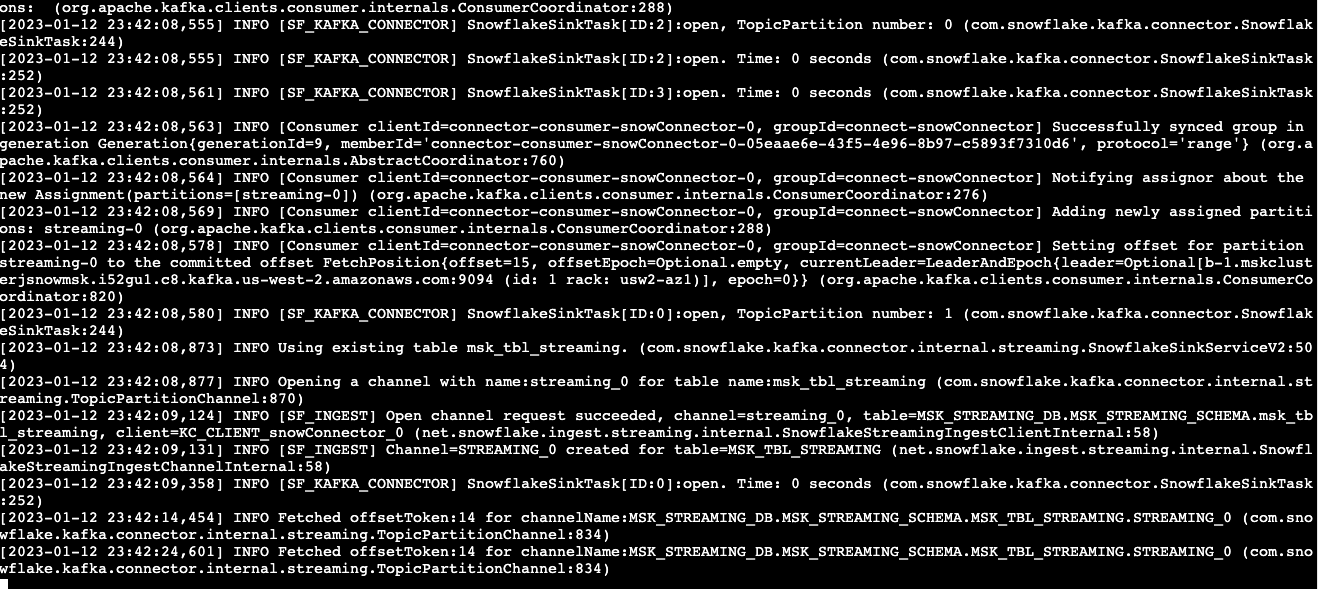
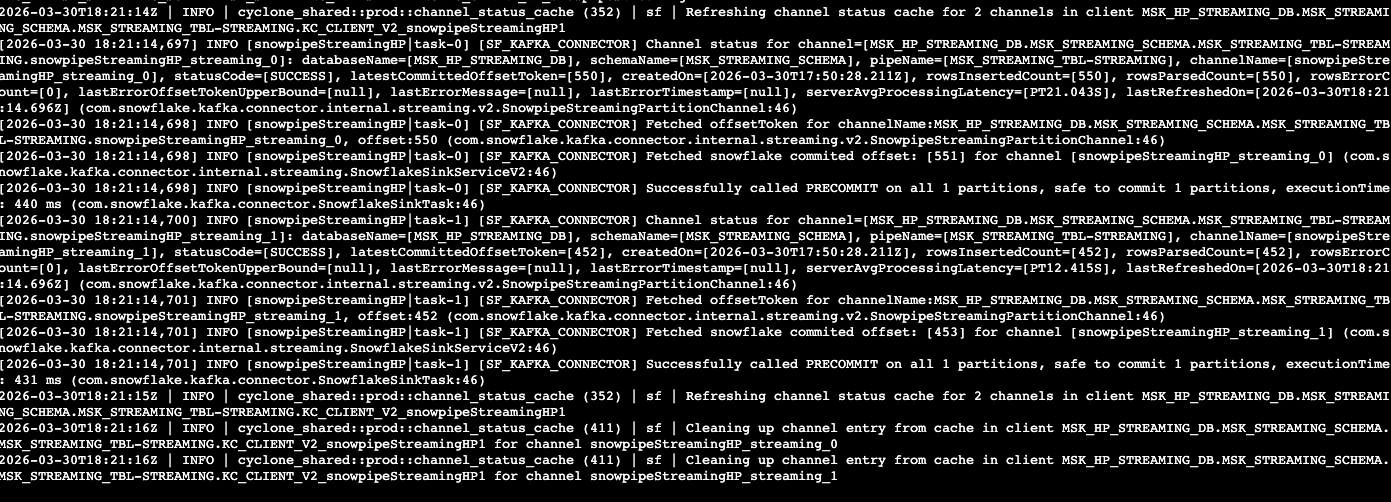
fix: replace SHOW CHANNELS with SHOW PIPES, update screenshots
HP connector v2 uses server-side pipes instead of client-side channels.
Replace SHOW CHANNELS with SYSTEM$PIPE_STATUS and SHOW PIPES.
Update connector and producer screenshots for v4.x.

.... Generated with [Cortex Code](https://docs.snowflake.com/en/user-guide/cortex-code/cortex-code)

diff --git a/site/sfguides/src/getting-started-with-snowpipe-streaming-aws-msk/getting-started-with-snowpipe-streaming-aws-msk.md b/site/sfguides/src/getting-started-with-snowpipe-streaming-aws-msk/getting-started-with-snowpipe-streaming-aws-msk.md
@@ -506,22 +506,16 @@ To verify that data has been streamed into Snowflake, execute the following SQL 
 ```sh
 use msk_streaming_db;
 use schema msk_streaming_schema;
-show channels in table msk_streaming_tbl;
-```
-You should see that there are two channels, corresponding to the two partitions created earlier in the topic.
-![](assets/channels.png)
 
-You can also check the status of the default pipe that was auto-created by the HP connector:
-
-```sh
 -- Check the default pipe status (auto-created by HP connector)
 SELECT SYSTEM$PIPE_STATUS('MSK_STREAMING_DB.MSK_STREAMING_SCHEMA."MSK_STREAMING_TBL-STREAMING"');
 
 -- Show all pipes in the schema
 SHOW PIPES IN SCHEMA MSK_STREAMING_DB.MSK_STREAMING_SCHEMA;
 ```
+You should see the auto-created pipe `MSK_STREAMING_TBL-STREAMING` with `executionState=RUNNING`.
 
-Note that, unlike the screen capture above, at this point, you should only see one row in the table, as we have only ingested data once. We will see new rows being added later as we continue to ingest more data.
+Note that, at this point, you should only see one batch of rows in the table, as we have only ingested data once. We will see new rows being added later as we continue to ingest more data.
 
 Now run the following query on the table.
 ```